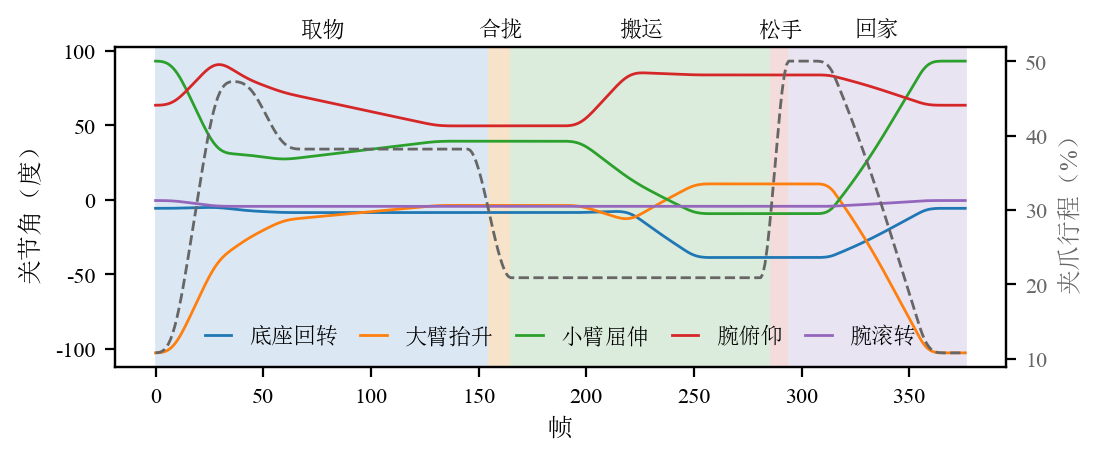
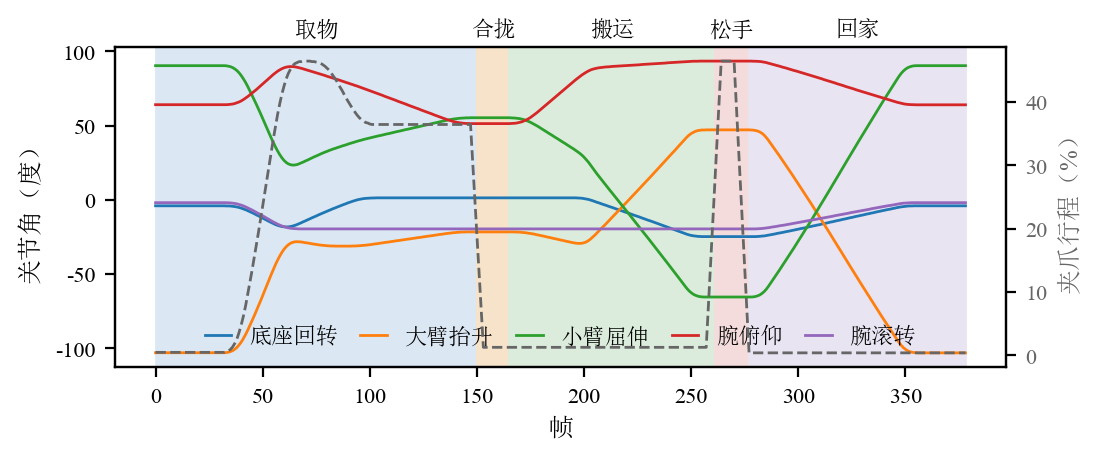
wri: 第10讲 3.2.2 阶段图按夹爪与手臂动静分段，合拢、松手两段不再窄成一条线
阶段边界原先只按夹爪指令算：合拢、松手各只有夹爪在动的三五帧，图上色块窄成一条线，
和正文「保持若干帧让堵转建立」对不上。改为合拢段算到手臂重新动起来、松手段算到手臂开始回家
（VLA-wri-001 重画时发现，2026-10-18 改好未提交）。

- code/vla/0_dataset_gen/plot_demo_phases.py：phase_bounds 同时看夹爪指令与手臂动静
- assets/figures/lecture10/fig10-3-demo-phases.png 重出
- 第10讲 PDF 随下一个提交一起重编

diff --git a/code/vla/0_dataset_gen/plot_demo_phases.py b/code/vla/0_dataset_gen/plot_demo_phases.py
@@ -3,8 +3,8 @@
 在讲10 3.2.2 节被引用：读者要能看见「脚本化专家产出的一集」到底长什么样 ——
 六条曲线怎么走、五个阶段各占多长、夹爪在哪两处动。
 
-阶段边界从**夹爪指令**解出来，不硬编帧号：夹爪张开过之后首次合到底 = 抓住，
-此后首次再张开 = 松手。起手那一帧夹爪本来就是合的（张开会把物体推走），
+阶段边界从**夹爪指令与手臂动静**解出来，不硬编帧号：夹爪张开过之后首次合到底 = 抓住，
+此后首次再张开 = 松手；合拢、松手两段各算到手臂重新动起来为止。起手那一帧夹爪本来就是合的（张开会把物体推走），
 所以必须先等它张开过，否则边界会落在第 0 帧。
 
 ★ 存盘路径就是讲义引用的那个路径，不存别处再拷（xb-q1ut）。
@@ -56,15 +56,21 @@ def load_episode(root: Path, ep: int) -> np.ndarray:
     sys.exit(f"★ 没有第 {ep} 集")
 
 
-def phase_bounds(grip: np.ndarray) -> list[int]:
-    """按夹爪指令解出五个阶段的分界帧。
+def phase_bounds(grip: np.ndarray, arm: np.ndarray) -> list[int]:
+    """按夹爪指令与手臂动静解出五个阶段的分界帧。
+
+    合拢段从夹爪开始合拢算到手臂重新动起来（含「手臂不动、保持若干帧让堵转建立」那一段）；
+    松手段从夹爪开始张开算到手臂开始回家。只按夹爪算的话，合拢、松手各只有夹爪在动的三五帧，
+    色块窄成一条线，和正文说的「保持若干帧」对不上（VLA-wri-001 重画时发现）。
 
     Args:
         grip: `(帧数,)` 夹爪指令，小 = 合拢。
+        arm: `(帧数, 5)` 五个臂关节角（度）。
 
     Returns:
         长度 6 的分界点（含首尾）。
     """
+    moving = np.abs(np.diff(arm, axis=0)).max(axis=1) > 0.05   # 第 i 帧到第 i+1 帧手臂在动
     mid = (grip.max() + grip.min()) / 2
     opened = grip > mid
     if not opened.any():
@@ -75,14 +81,16 @@ def phase_bounds(grip: np.ndarray) -> list[int]:
     open_again = opened[close_at:]
     release_at = close_at + int(np.argmax(open_again))
     last = len(grip) - 1
-    # 合拢段 = 夹爪一直在往小走的那几帧；松手段 = 一直在往大走的那几帧。
+    # 合拢段、松手段的终点 = 夹爪动完之后、手臂第一次重新动起来的那一帧。
     # ★ 别写成「首次到达最小值」：夹爪合到底之后会在底部维持很久，最小值可能出现在
     #   搬运段末尾，于是边界跑到松手之后去 —— 实测得到过 [0,155,359,286,287,376] 这种逆序，
     #   而 matplotlib 画逆序区间**不报错**，只是把色块画反。
     def settle(start: int, sign: int) -> int:
         d = np.diff(grip[start:])
         k = int(np.argmax(sign * d >= 0)) if (sign * d >= 0).any() else len(d)
-        return min(start + max(k, 1), last)
+        done = min(start + max(k, 1), last)          # 夹爪动完
+        rest = np.flatnonzero(moving[done:])
+        return min(done + int(rest[0]), last) if rest.size else last
 
     return [0, close_at, settle(close_at, +1), release_at, settle(release_at, -1), last]
 
@@ -94,7 +102,7 @@ def main(argv) -> int:
     ep = int(argv[1]) if len(argv) == 2 else 0
     act = load_episode(root, ep)
     arm, grip = act[:, :5], act[:, 5]
-    b = phase_bounds(grip)
+    b = phase_bounds(grip, arm)
     t = np.arange(len(act))
 
     figstyle.assert_covered(
